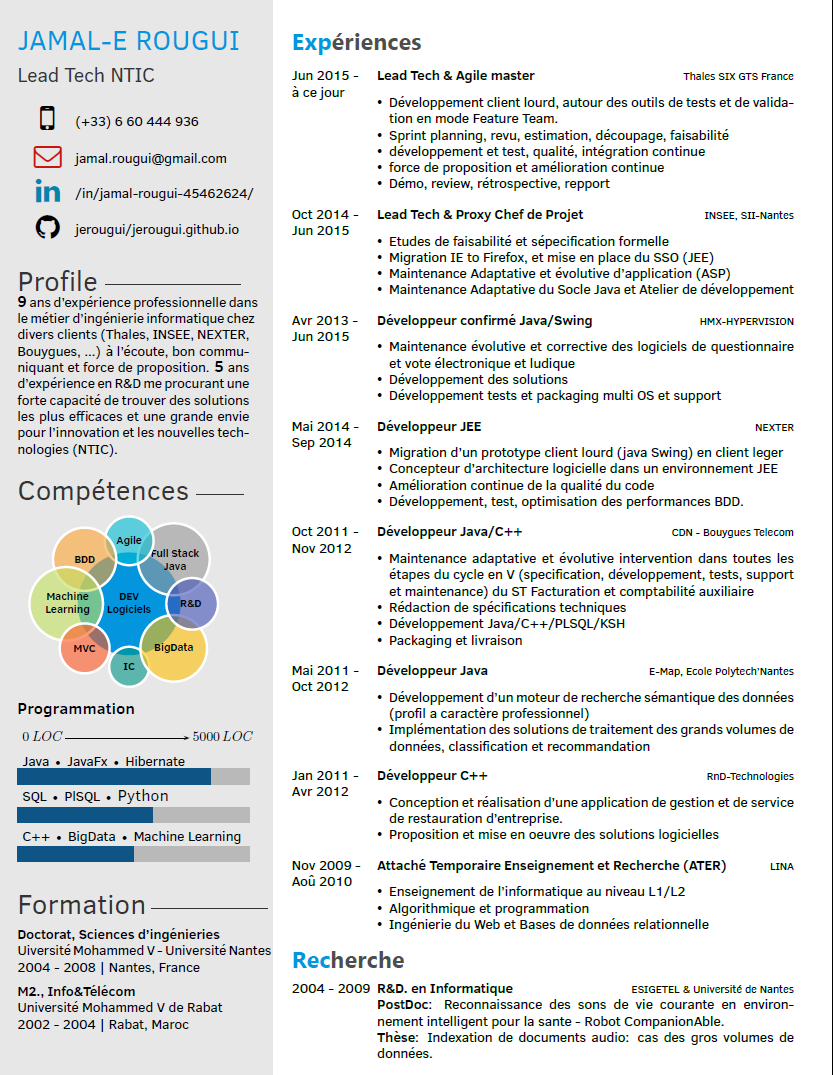
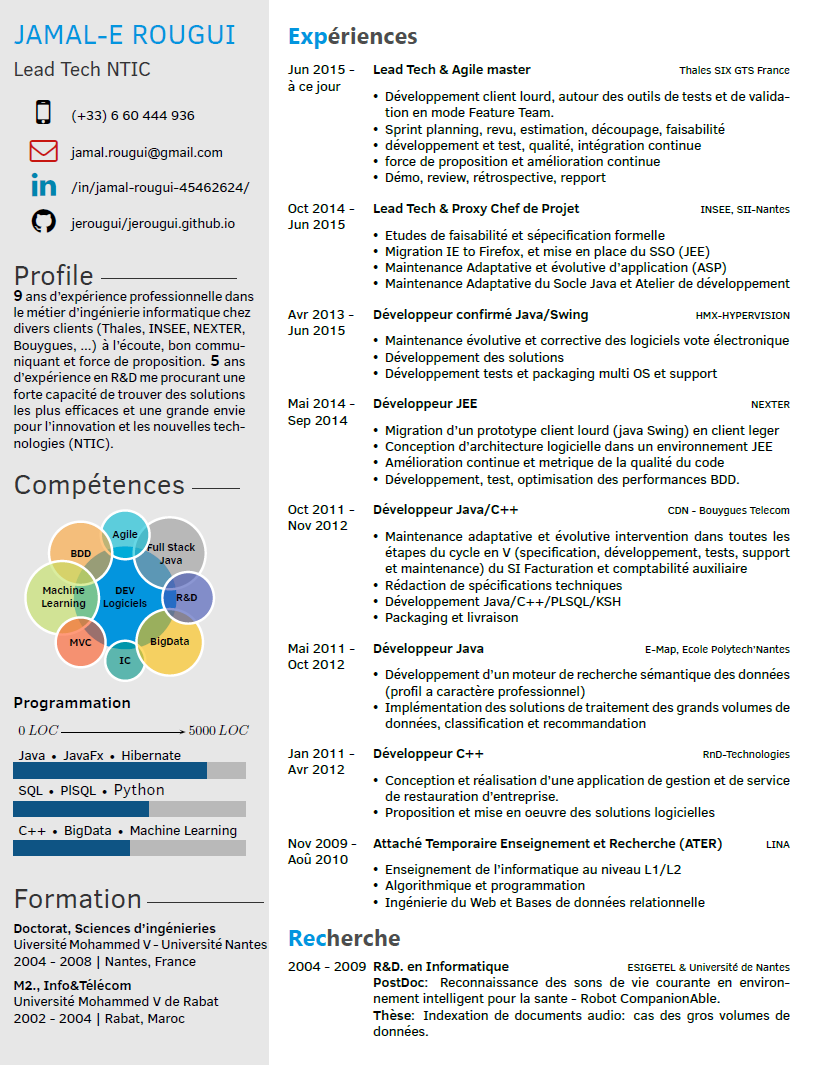
fix number of pages

diff --git a/template.tex b/template.tex
@@ -122,7 +122,7 @@ Université Mohammed V de Rabat \\
         {}
         {
         \begin{itemize}
-        \item Maintenance évolutive et corrective des logiciels de questionnaire et vote électronique et ludique
+        \item Maintenance évolutive et corrective des logiciels vote électronique
         \item Développement des solutions
         \item Développement tests et packaging multi OS et support
     	\end{itemize}
@@ -137,8 +137,8 @@ Université Mohammed V de Rabat \\
 		{
 		\begin{itemize}
 		\item Migration d'un prototype client lourd (java Swing) en client leger
-		\item Concepteur d'architecture logicielle dans un environnement JEE
-		\item Amélioration continue de la qualité du code
+		\item Conception d'architecture logicielle dans un environnement JEE
+		\item Amélioration continue et metrique de la qualité du code
 		\item Développement, test, optimisation des performances BDD.
 		\end{itemize}
 		}       
@@ -151,7 +151,7 @@ Université Mohammed V de Rabat \\
 	    {}
 	    {
 	    \begin{itemize}
-	    \item Maintenance adaptative et évolutive intervention dans toutes les étapes du cycle en V (specification, développement, tests, support et maintenance) du ST Facturation et comptabilité auxiliaire
+	    \item Maintenance adaptative et évolutive intervention dans toutes les étapes du cycle en V (specification, développement, tests, support et maintenance) du SI Facturation et comptabilité auxiliaire
 	    \item Rédaction de spécifications techniques
 	    \item Développement Java/C++/PLSQL/KSH
 	    \item Packaging et livraison	
